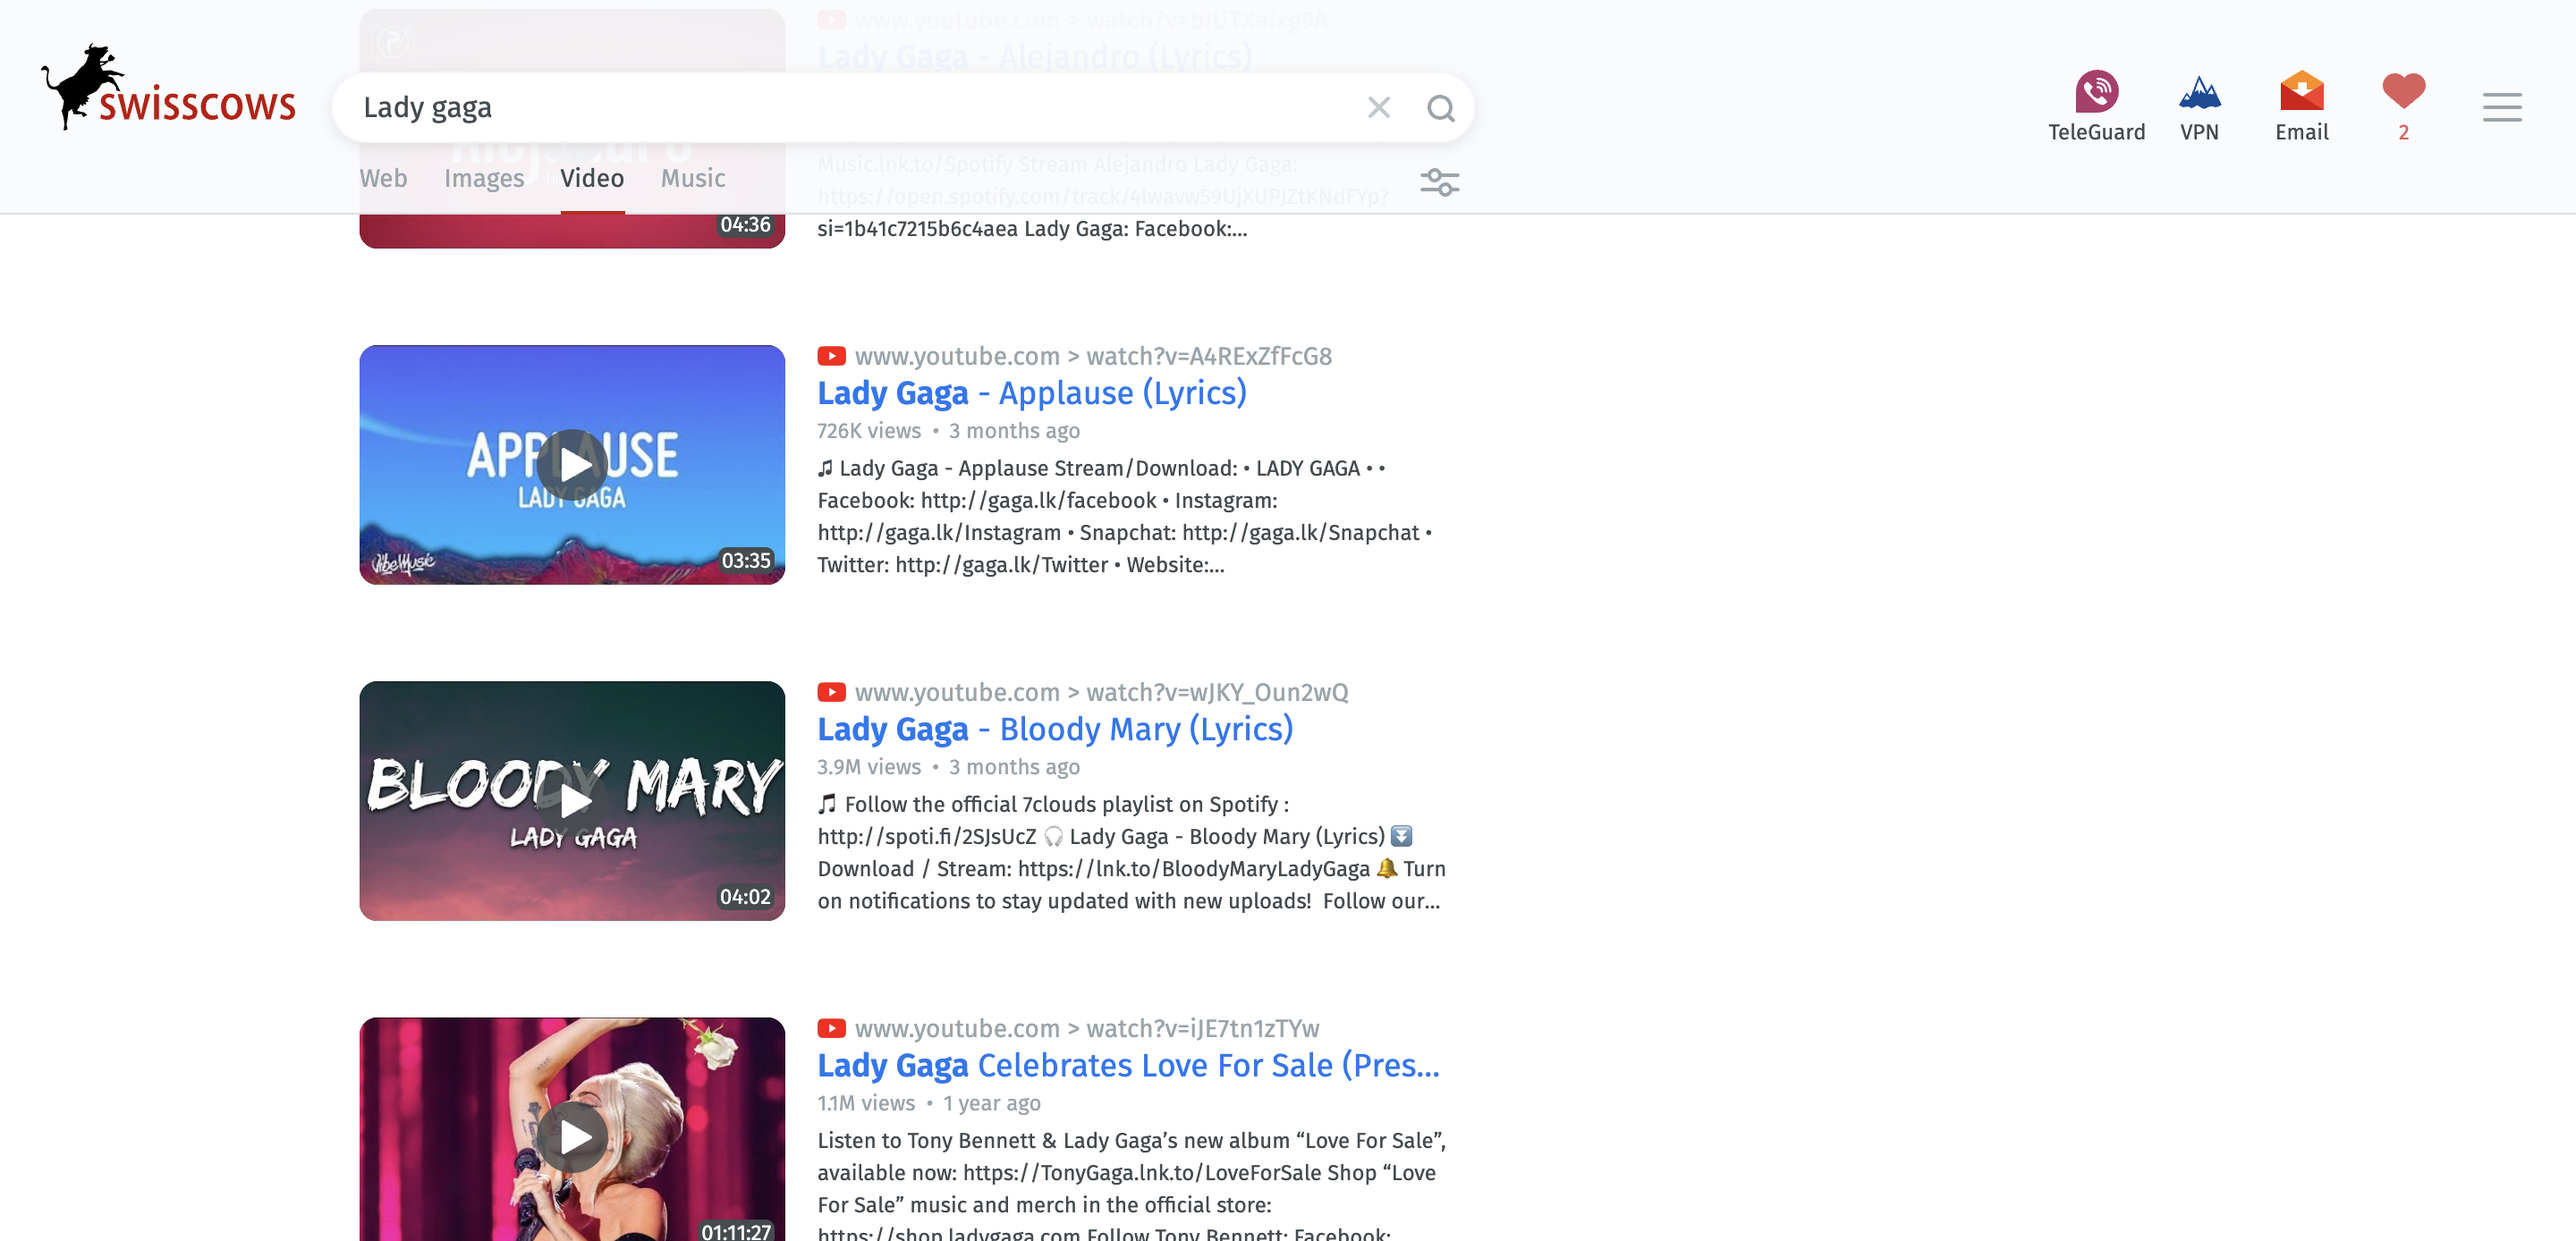
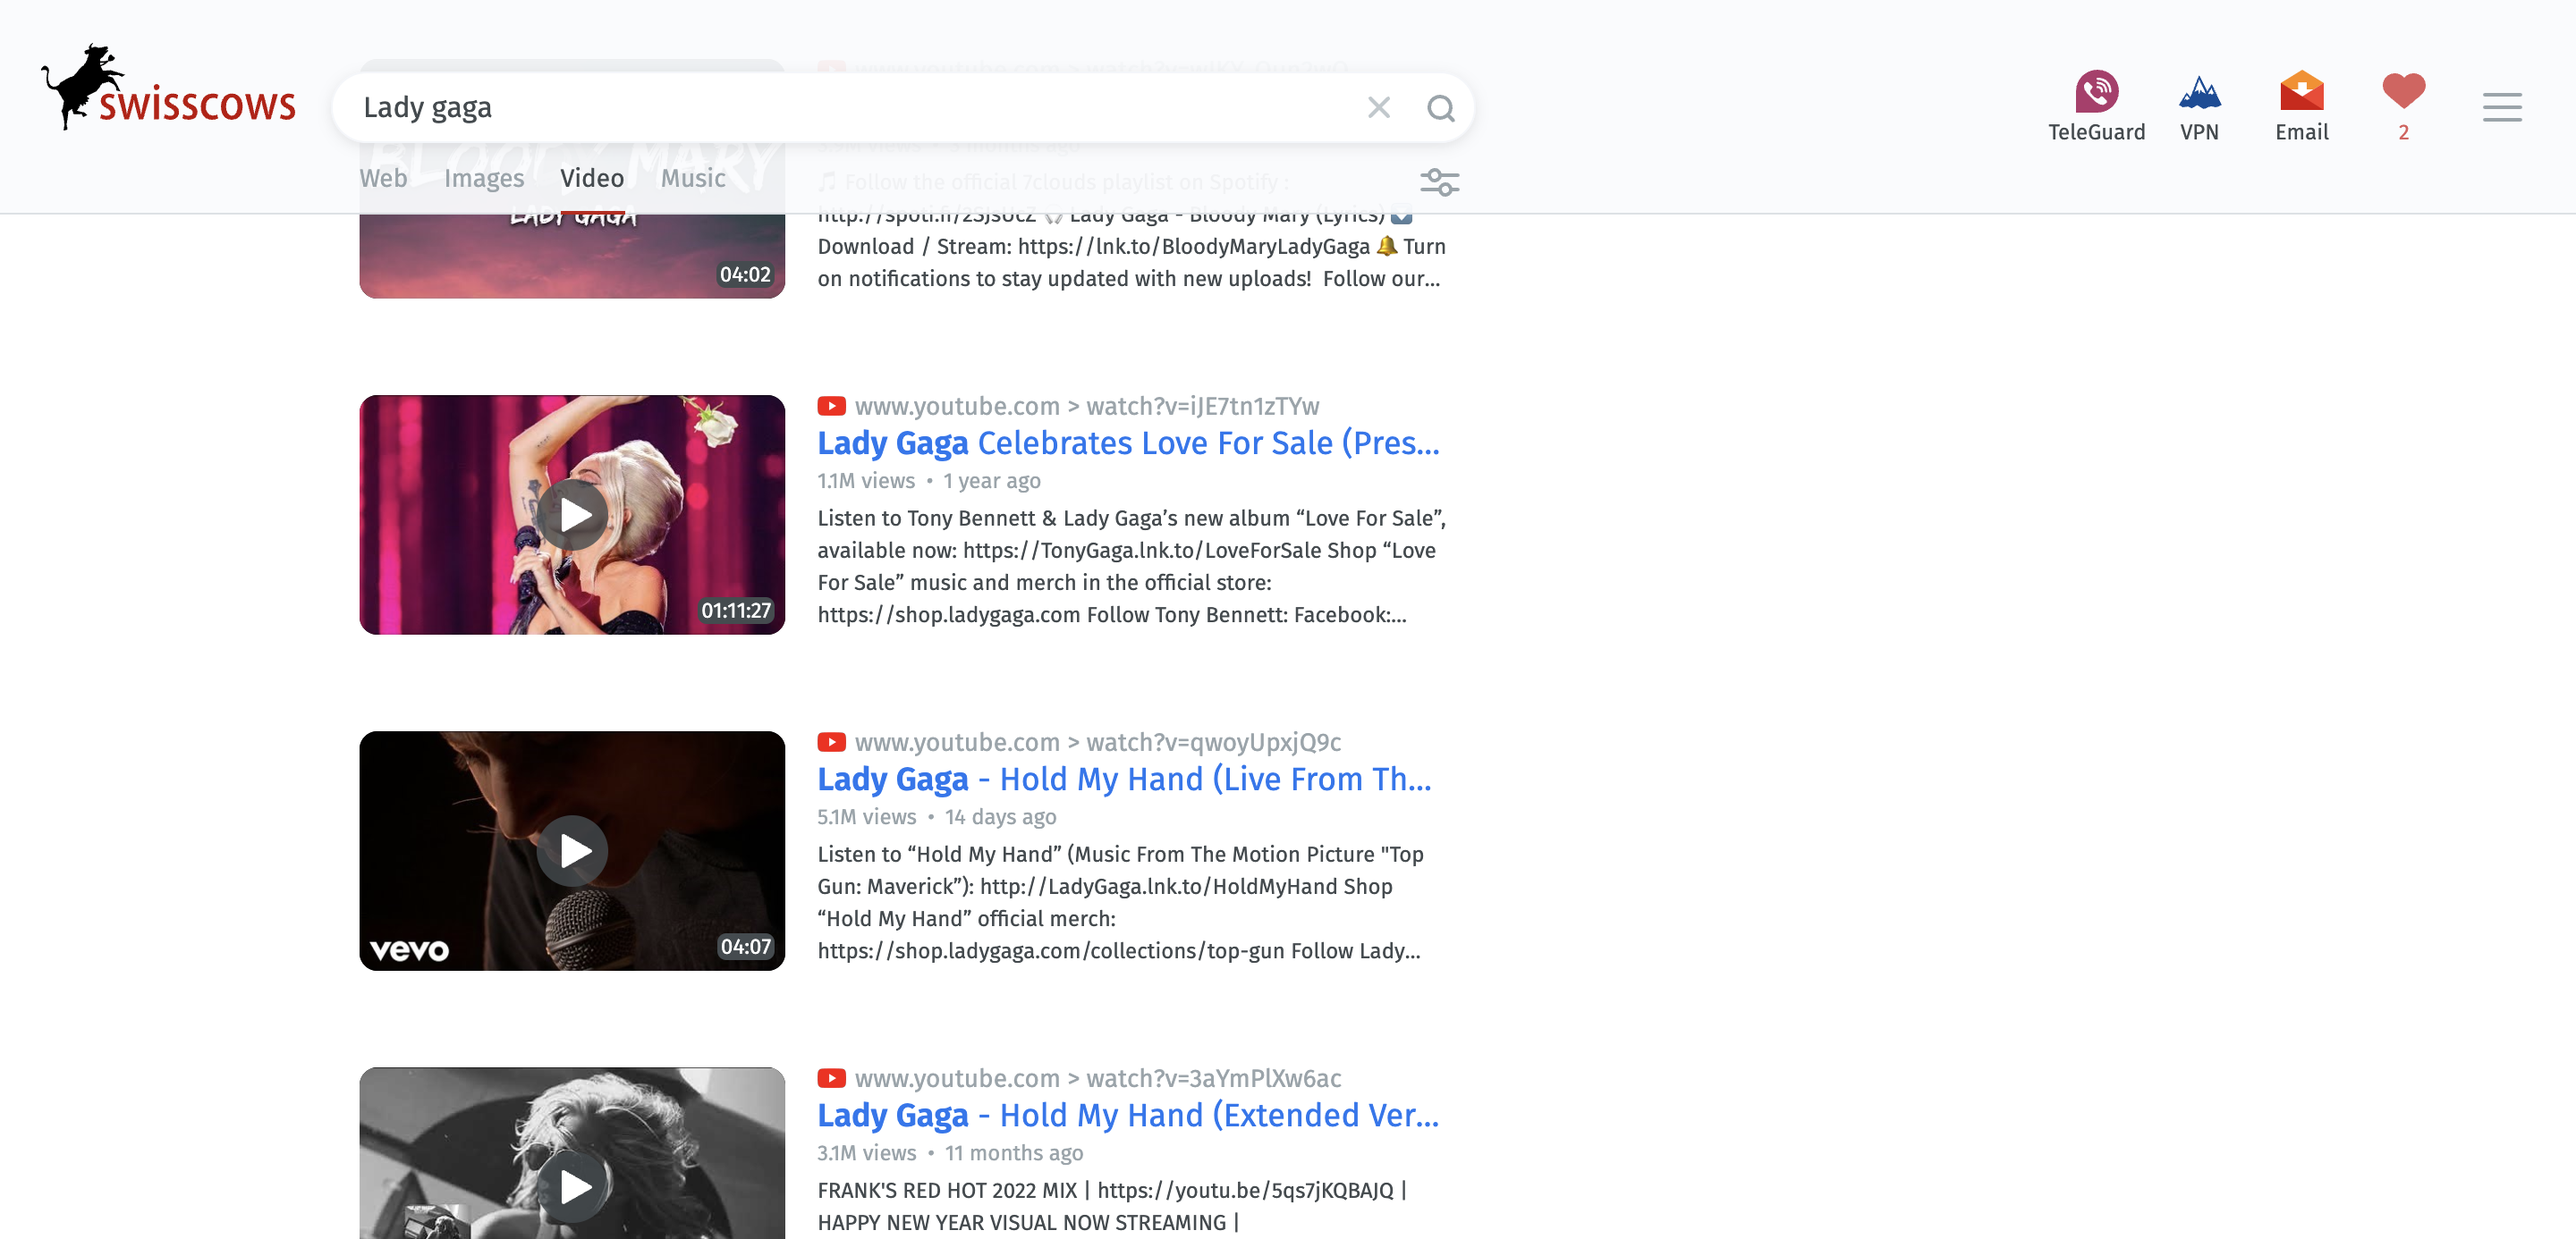
smoke

Changed region(s): [[0.125, 0.2792, 0.5625, 1.0], [0.125, 0.1551, 0.5625, 0.2482]]

diff --git a/src/test/java/tests/VideoTest.java b/src/test/java/tests/VideoTest.java
@@ -58,19 +58,19 @@ public class VideoTest extends BaseTest {
     }
     @Test
     public void testScrollToNextPage_VideoPage() throws InterruptedException {
-        MusicPage videoResult = new MusicPage(getDriver());
         VideoPage videoPage = new VideoPage(getDriver());
-        openBaseURL()
+        final List<String> oldSize = openBaseURL()
                 .inputSearchCriteriaAndEnter("Lady gaga")
                 .waitUntilVisibilityWebResult()
                 .clickVideoButton()
-                .waitUntilVisibilityVideoResult();
-        videoResult
-                .scrollToLastTrack();
+                .waitUntilVisibilityVideoResult()
+                .getTitleAllVideo();
 
-        final List<String> titleAllVideo = videoPage.getTitleAllVideo();
+        final List<String> newSize = videoPage
+                .scrollToLastVideo()
+                .getTitleAllVideo();
 
-        Assert.assertEquals(titleAllVideo.size() ,48);
+        Assert.assertNotEquals(newSize ,oldSize);
 
 
     }

diff --git a/src/test/java/pages/top_menu/VideoPage.java b/src/test/java/pages/top_menu/VideoPage.java
@@ -40,6 +40,8 @@ public class VideoPage extends TopMenuPage<VideoPage> {
     private WebElement shortButtonInDropdownDuration;
     @FindBy(xpath = "//article[@class ='item-video']//figure//span")
     private List<WebElement> listDurationAllVideo;
+    @FindBy(xpath = "//article[20]")
+    private WebElement lastVideo;
     public VideoPage(WebDriver driver) {
         super(driver);
     }
@@ -86,6 +88,10 @@ public class VideoPage extends TopMenuPage<VideoPage> {
     }
     public VideoPage clickShortInDropdownDuration() {
         click(shortButtonInDropdownDuration);
+        return new VideoPage(getDriver());
+    }
+    public VideoPage scrollToLastVideo() {
+        scrollToLastElement(lastVideo);
         return new VideoPage(getDriver());
     }
     public String getVideoImageAttribute() {

diff --git a/src/test/java/pages/top_menu/MusicPage.java b/src/test/java/pages/top_menu/MusicPage.java
@@ -24,7 +24,7 @@ public class MusicPage extends TopMenuPage<MusicPage> {
     private WebElement playButtonAttribute;
     @FindBy(xpath = "//article[2]")
     private WebElement nextTrackAttributes;
-    @FindBy(xpath = "//article[24]")
+    @FindBy(xpath = "//article[20]")
     private WebElement lastTrack;
     @FindBy(xpath = "//article[29]")
     private WebElement lastTrackDouble;
@@ -119,7 +119,6 @@ public class MusicPage extends TopMenuPage<MusicPage> {
         return new MusicPage(getDriver());
     }
     public MusicPage scrollToLastTrack() {
-        wait10ElementToBeVisible(lastTrack);
         scrollByVisibleElement(lastTrack);
         return new MusicPage(getDriver());
     }

diff --git a/src/test/java/pages/base_abstract/BasePage.java b/src/test/java/pages/base_abstract/BasePage.java
@@ -348,6 +348,10 @@ public abstract class BasePage {
         JavascriptExecutor js = (JavascriptExecutor) getDriver();
         js.executeScript("arguments[0].scrollIntoView();", element);
     }
+    protected void scrollToLastElement(WebElement element) {
+        JavascriptExecutor js = (JavascriptExecutor) getDriver();
+        js.executeScript("window.scrollBy(0,4000)", element);
+    }
 
     protected void goBack() {
 
